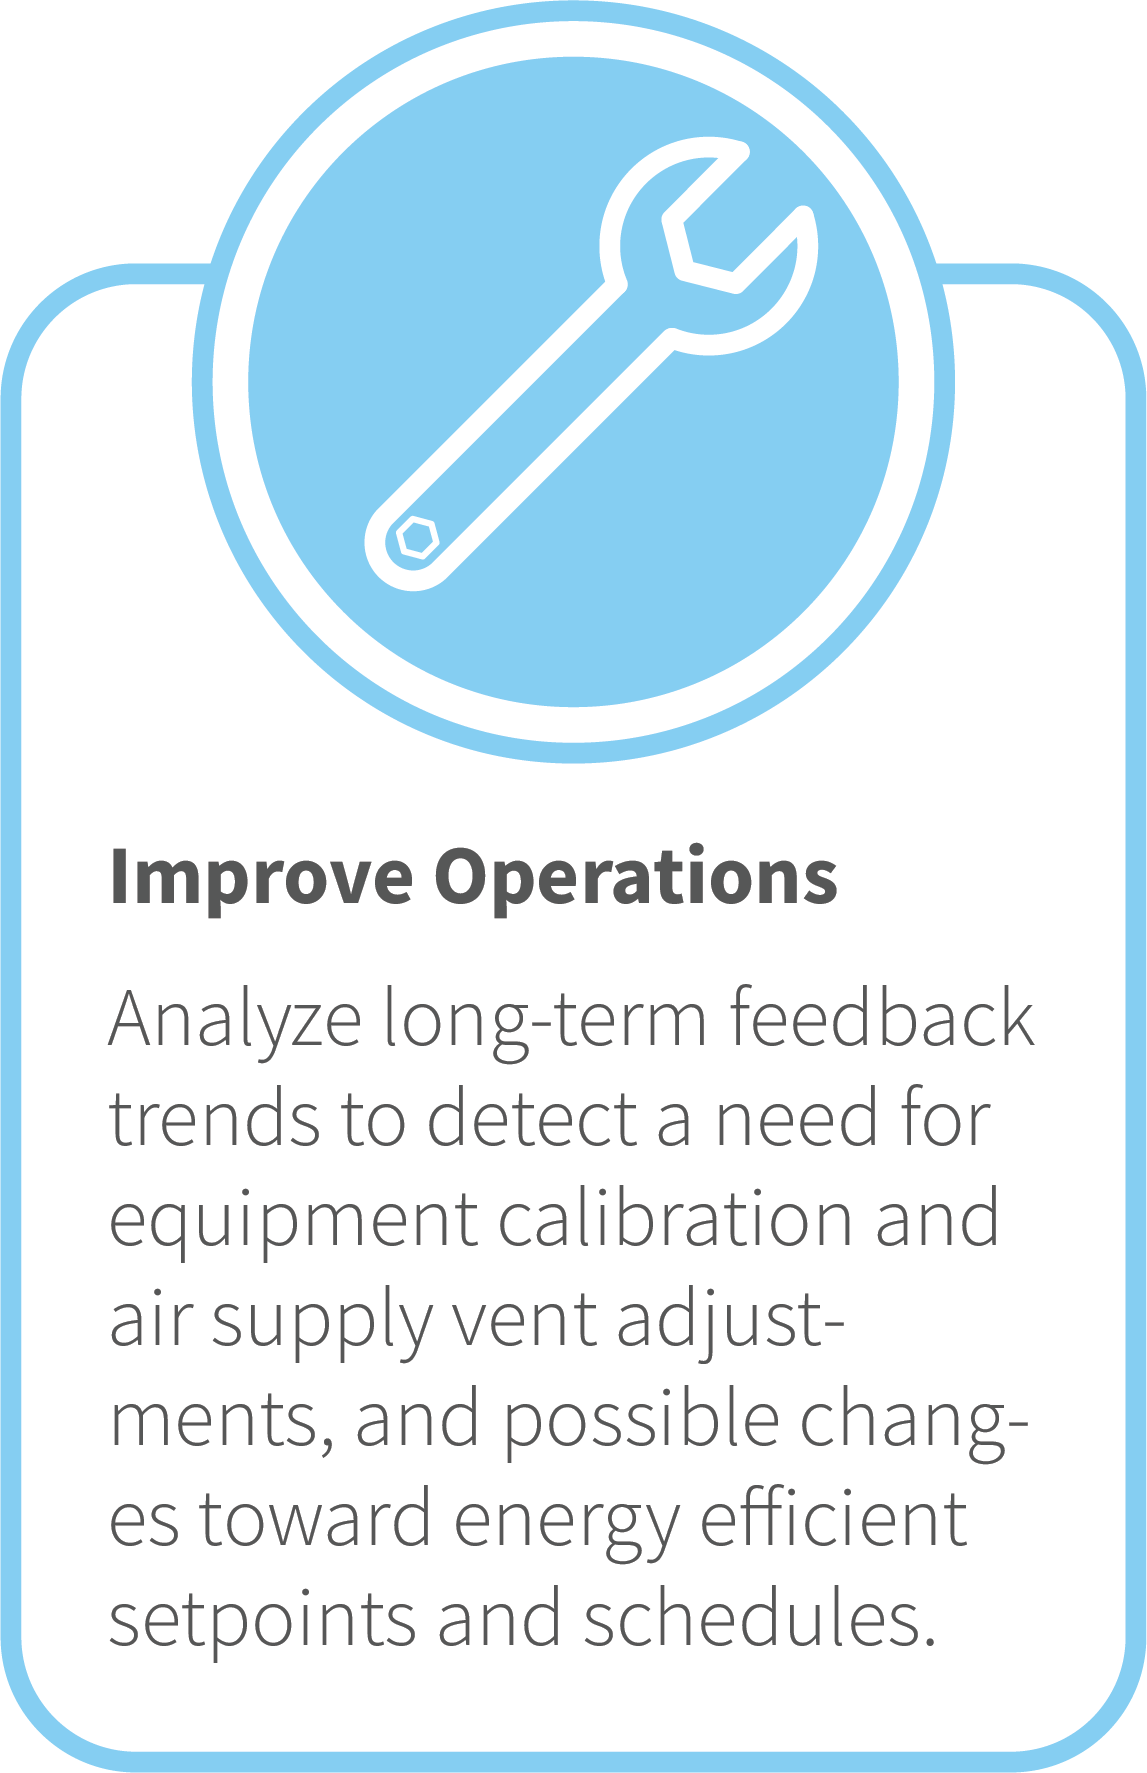
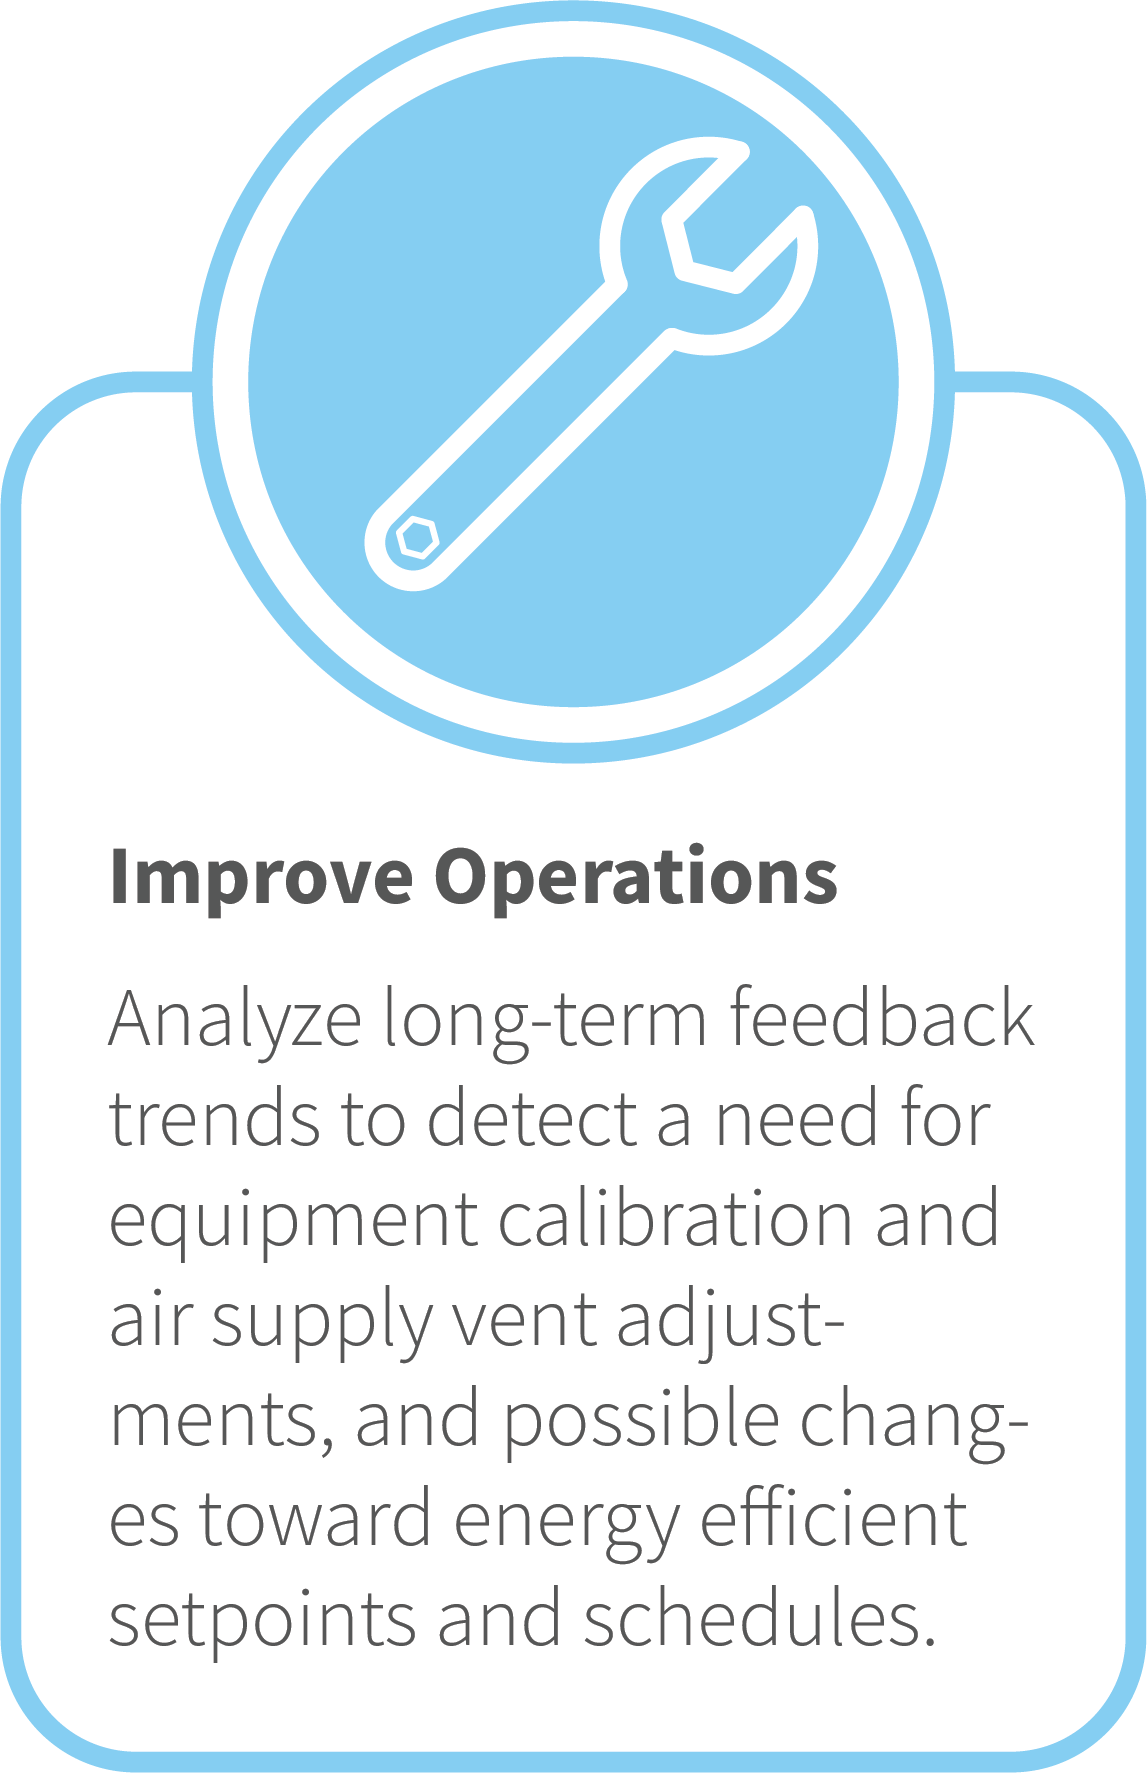
touched up ellas graphics and added underline on links

Changed region(s): [[0.8239, 0.1241, 1.0, 0.2792], [0.0, 0.1241, 0.1831, 0.2792]]

diff --git a/app-page/index.html b/app-page/index.html
@@ -6,7 +6,7 @@
 -->
 <html>
 	<head>
-		<title>Applications</title>
+		<title>Applications & Measurement</title>
 		<meta charset="utf-8" />
 		<meta name="viewport" content="width=device-width, initial-scale=1, user-scalable=no" />
 		<link rel="stylesheet" href="assets/css/main.css" />
@@ -67,15 +67,15 @@
 						<!-- First Section -->
 							<section id="first" class="main" style="padding-bottom: 3%; margin-bottom: 1%;">
 								<header class="major">
-									<h2>Improve Occupant Comfort and Efficiency</h2>
+									<h2>Improve Comfort & Efficiency</h2>
 								</header>
 								<p>A PTS system can yield data to both improve comfort and find opportunities to increase energy efficiency. PTS data provides a dataset previously unrealized for a university campus, and can be used to gain insight from the campus community on how they feel about their spaces.<br><br>
 
 									Analyzing long-term trends in PTS data reveals opportunities to improve campus comfort and efficiency--sometimes simultaneously! One initiative that has come out of PTS data at UCD is the “Campus Comfort Band,” a new set of temperature guidelines. PTS data from classroom buildings has consistently shown that occupants are too cold on very hot days. Specifically, occupants report the room is too cold when the outside temperature gets over 95°F and the room is below 75°F.
 									</p>
-									<img src="images/graph.png" style="max-width: 97%"/>
+									<div class="fan"><img class="fangraph" src="images/graph.png"/></div>
 									<p>This raised a red flag for energy waste from overcooling indoor spaces! In response, the Campus Comfort Band was developed for classrooms, with a range of indoor setpoints fluctuating throughout the day based on the outdoor temperature. Classrooms setpoints are now set between 71°F - 76°F when it's warmer outside, and between 69°F - 74°F when it's cooler outside.</p>
-									<img src="images/comfortgraph.png" style="max-width: 97%"/>
+									<div class="fan"><img class="fangraph" src="images/comfortgraph.png"/></div>
 									<img src="images/cooler.png" style="max-width: 47%"/>
 									<img src="images/warmer.png" style="max-width: 47%"/>
 
@@ -90,7 +90,7 @@
 									<p>All UC campuses likely have a long list of projects needed to improve building performance, many of which require major capital investment. PTS data can be used to help prioritize these needs for long-term planning of retroﬁts.</p>
 
 									<p><u>UCD Example of Project Sparked by PTS Data</u><br>
-									Wellman Hall is a classroom building on campus that receives an average of 400 votes every year, up to 30% more comfort feedback than is received by other classroom buildings on campus. From January 2015 - August 2016, there were 24 work orders initiated for Wellman through Facilities Management, with solutions totaling over $9,000. We used TherMOOstat feedback and performed an <a href="images/WellmanFloorPlans.pdf" download="Wellman_Floor_Plan">investigation into 32 classrooms</a> in Wellman. We attempted to address issues by adjusting the Siemens (BAS) programming for the HVAC system, but this was not effective due to poor location of sensors controlling the HVAC system. We used our research and TherMOOstat feedback to create <a href="images/WellmanSummarySheet.pdf" download="Wellman_Summary_Sheet">a report in favor of an energy retrofit.</a> In the Summer of 2017 a project was undertaken to reinstall the sensors that were throwing off the HVAC programming. We are now using TherMOOstat feedback to continuously finetune the HVAC programming.
+									Wellman Hall is a classroom building on campus that receives an average of 400 votes every year, up to 30% more comfort feedback than is received by other classroom buildings on campus. From January 2015 - August 2016, there were 24 work orders initiated for Wellman through Facilities Management, with solutions totaling over $9,000. We used TherMOOstat feedback and performed an <a href="images/WellmanFloorPlans.pdf" class="boom" download="Wellman_Floor_Plan">investigation into 32 classrooms</a> in Wellman. We attempted to address issues by adjusting the Siemens (BAS) programming for the HVAC system, but this was not effective due to poor location of sensors controlling the HVAC system. We used our research and TherMOOstat feedback to create <a href="images/WellmanSummarySheet.pdf" class="boom" download="Wellman_Summary_Sheet">a report in favor of an energy retrofit.</a> In the Summer of 2017 a project was undertaken to reinstall the sensors that were throwing off the HVAC programming. We are now using TherMOOstat feedback to continuously finetune the HVAC programming.
 									</p>
 							</section>
 						</div>

diff --git a/analysis-page/index.html b/analysis-page/index.html
@@ -24,11 +24,11 @@
 				<div id="main" style="position: -webkit-sticky; /* Safari */position: sticky; top: 0;">
 					<nav id="nav">
 						<ul>
-							<li><a href="#first" class="main">Questions to Consider</a></li>
-							<li><a href="#cta" class="main">PTS vs. TWOS</a></li>
-							<li><a href="#second" class="main">Triage in Real-Time</a></li>
-							<li><a href="#secondhalf" class="main">Understanding Users</a></li>
-							<li><a href="#third" class="main">Short-Term Analysis</a></li>
+							<li><a href="#first" class="main">PTS vs. Work Order</a></li>
+							<li><a href="#cta" class="main">Questions to Consider</a></li>
+							<li><a href="#second" class="main">What to Expect</a></li>
+							<li><a href="#secondhalf" class="main">Workflow</a></li>
+							<li><a href="#third" class="main">Know Your Users</a></li>
 						</ul>
 					</nav>
 				</div>
@@ -37,8 +37,8 @@
 
 				<!-- Header -->
 					<header id="header" class="alt" style="padding-bottom: 3%; margin-bottom: 1%; padding-top: 3%;">
-						<h1>Triage & Analysis</h1>
-						<p>In this module, we describe methods and tools for triaging <br>incoming thermal comfort feedback to find comfort and HVAC issues.</p>
+						<h1 class="module"> Triage & Analysis</h1>
+						<p>In this module, we hope to guide you through defining your team’s process for triaging incoming thermal comfort feedback submissions. Goals for data triage are to quickly identify any major HVAC operation issues, store data efficiently for later analysis, and communicate back to users as needed.</p>
 					</header>
 				</div>
 
@@ -46,24 +46,11 @@
 					<div id="main">
 							<section id="first" class="main" style="padding-bottom: 3%; margin-bottom: 1%;">
 								<header class="major">
-									<h2>Questions to Consider</h2>
+									<h2>Participatory Thermal Sensing vs. Work Order System</h2>
 								</header>
-								<p>Here are some questions for your PTS team to consider as you make your plan of attack for dealing with the data:</p>
-								<ul class="features">
-									<li>
-										<!-- <span class="icon major style1">
-											<i class="far fa-comments"></i>
-										</span> -->
-										<h3>Level of Control</h3>
-										<p>How much control do campus building occupants have over thermal conditions (control of thermostats, windows, etc.)?</p>
-										<p>How much remote visibility do you have into room temperatures on campus?</p>
-										<p>Are you able to make changes to a building automation system if necessary?</p>
-									</li>
-									<li>
-										<!-- <span class="icon major style1">
-											<i class="fas fa-running"></i>
-											<img src="images/actionlogo.png" alt="" />
-										</span> -->
+								<p>In considering how to handle incoming PTS data, it is useful to review the goals of PTS compared to a traditional work order system. Although both PTS and a traditional work orders can be channels for temperature complaints, they are quite
+									different in several ways. See the graphic below for differences in how Facilities staff respond and users options when submitting either a work order or PTS submission.</p>
+								<div class="chart1"><img class="graph1" src="images/Triage_PTS_IconSet_Final.png" alt=""/></div>
 										<h3>Taking Action</h3>
 										<p>When you can control the BAS, when will you make changes based on PTS feedback? When will you not?</p>
 										<p>Will you ever submit a formal work request based on PTS feedback? Under what conditions?</p>

diff --git a/analysis-page/assets/css/main.css b/analysis-page/assets/css/main.css
@@ -129,7 +129,27 @@ a img
 	display: none;
 	color: black;
 }
+.module {
+  display: flex;
+  justify-content: center;
+}
+.chart1 {
+  display: flex;
+  flex-direction: row;
+  flex-grow: 1;
+  flex-shrink: 1;
 
+  justify-content: center;
+  align-items: flex-start;
+  max-width: 100%;
+  padding-bottom: 3em;
+}
+.graph1 {
+  display: flex;
+  object-fit: contain;
+  max-width: 100%;
+
+}
 .fulltext:target p,
 .fulltext:target .less {
 	display: block;
@@ -3220,7 +3240,7 @@ input, select, textarea {
 
 	#header {
 		padding: 5em 5em 1em 5em ;
-		text-align: center;
+		text-align: left;
 	}
 
 		#header h1 {

diff --git a/app-page/assets/css/main.css b/app-page/assets/css/main.css
@@ -165,7 +165,7 @@ a img
 }
 .flyer {
   display: flex;
-  justify-content: space-between;
+  justify-content: center;
   max-width: 100%;
   padding-bottom: 2em;
 
@@ -178,6 +178,9 @@ a img
   max-width: 100%;
   align-items: flex-start;
   padding-bottom: 4em;
+}
+.boom {
+  text-decoration: underline;
 }
 .fangraph {
   display: flex;
